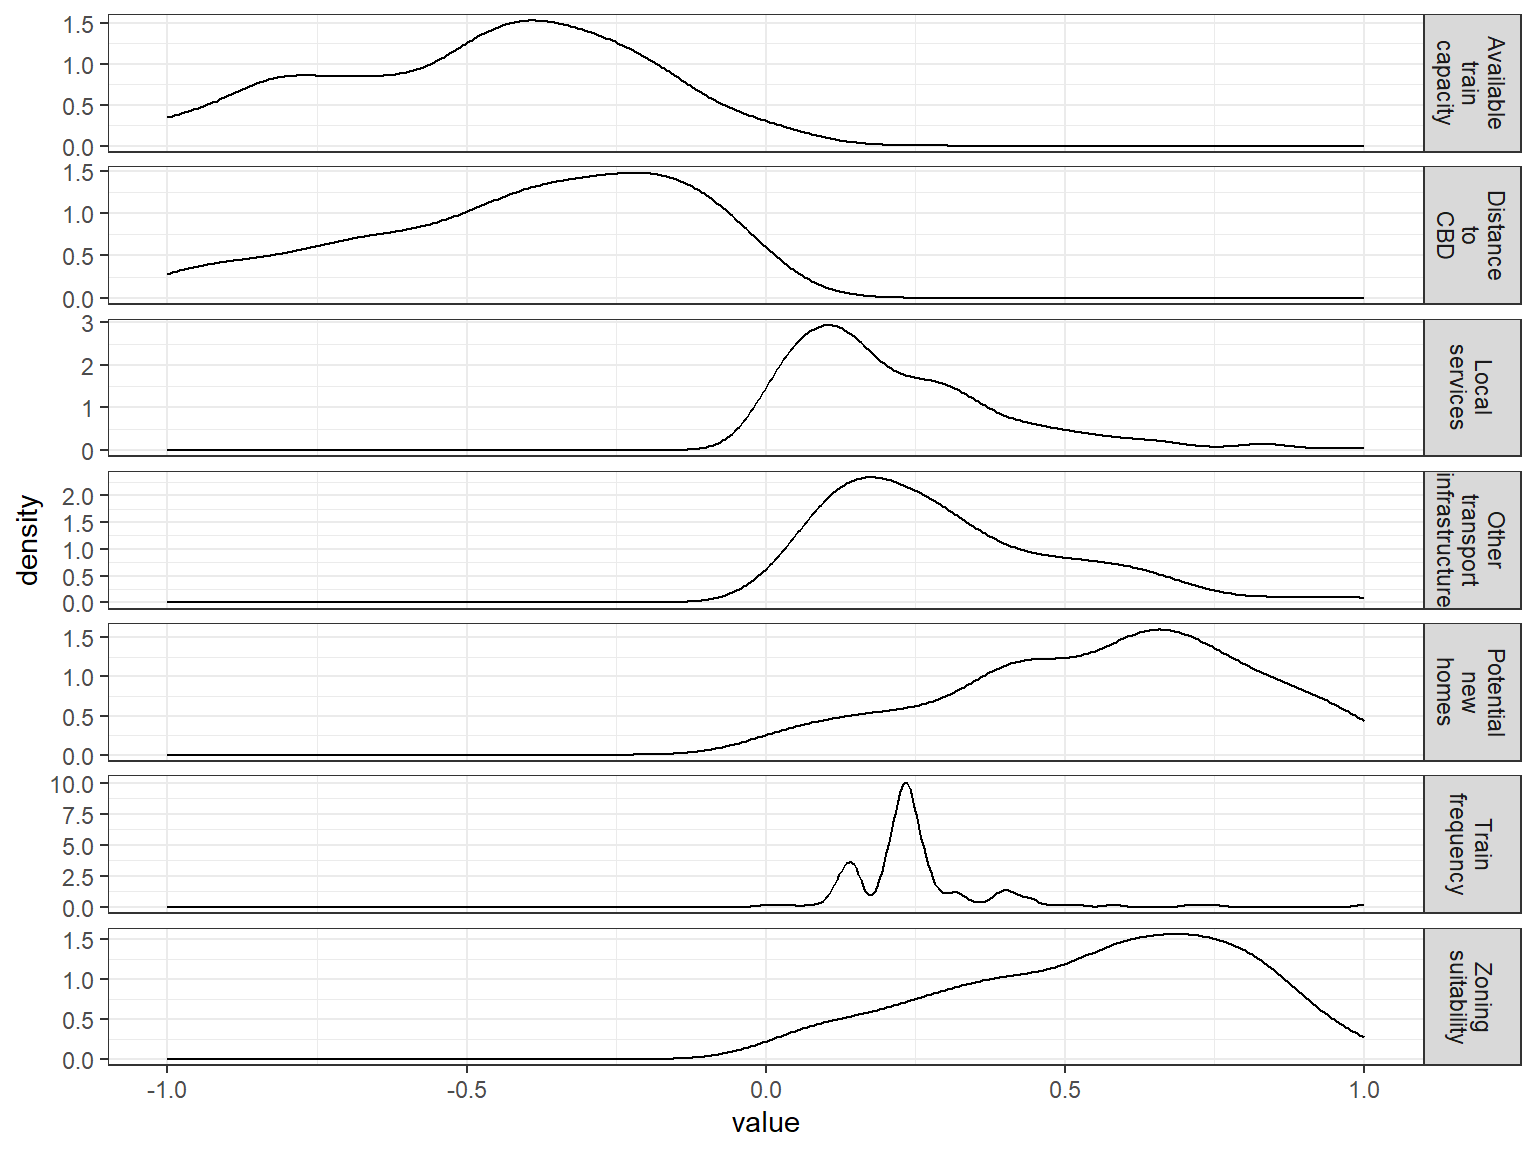
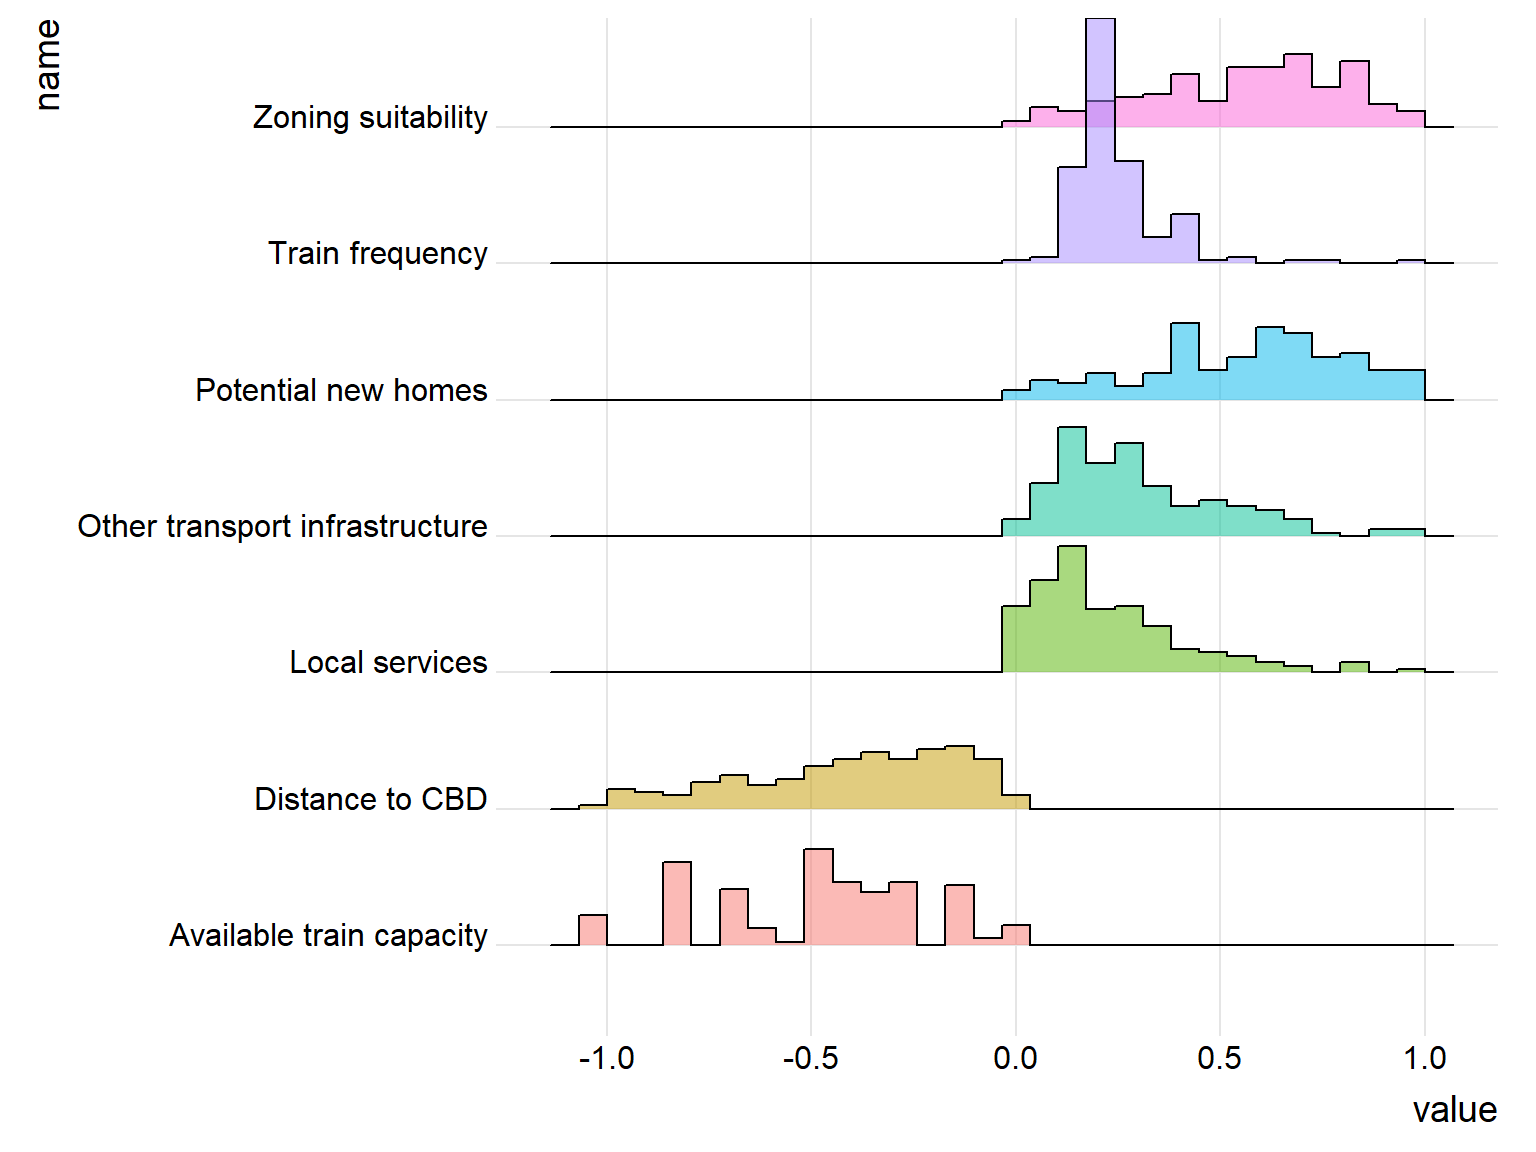
added ridgelines

diff --git a/quarto/analysis.html b/quarto/analysis.html
@@ -22,40 +22,6 @@ ul.task-list li input[type="checkbox"] {
   margin: 0 0.8em 0.2em -1em; /* quarto-specific, see https://github.com/quarto-dev/quarto-cli/issues/4556 */ 
   vertical-align: middle;
 }
-/* CSS for syntax highlighting */
-pre > code.sourceCode { white-space: pre; position: relative; }
-pre > code.sourceCode > span { display: inline-block; line-height: 1.25; }
-pre > code.sourceCode > span:empty { height: 1.2em; }
-.sourceCode { overflow: visible; }
-code.sourceCode > span { color: inherit; text-decoration: inherit; }
-div.sourceCode { margin: 1em 0; }
-pre.sourceCode { margin: 0; }
-@media screen {
-div.sourceCode { overflow: auto; }
-}
-@media print {
-pre > code.sourceCode { white-space: pre-wrap; }
-pre > code.sourceCode > span { text-indent: -5em; padding-left: 5em; }
-}
-pre.numberSource code
-  { counter-reset: source-line 0; }
-pre.numberSource code > span
-  { position: relative; left: -4em; counter-increment: source-line; }
-pre.numberSource code > span > a:first-child::before
-  { content: counter(source-line);
-    position: relative; left: -1em; text-align: right; vertical-align: baseline;
-    border: none; display: inline-block;
-    -webkit-touch-callout: none; -webkit-user-select: none;
-    -khtml-user-select: none; -moz-user-select: none;
-    -ms-user-select: none; user-select: none;
-    padding: 0 4px; width: 4em;
-  }
-pre.numberSource { margin-left: 3em;  padding-left: 4px; }
-div.sourceCode
-  {   }
-@media screen {
-pre > code.sourceCode > span > a:first-child::before { text-decoration: underline; }
-}
 </style>
 
 
@@ -134,35 +100,12 @@ pre > code.sourceCode > span > a:first-child::before { text-decoration: underlin
 
 <section id="distribution-of-scores" class="level2">
 <h2 class="anchored" data-anchor-id="distribution-of-scores">Distribution of scores</h2>
-<div class="tabset-margin-container"></div><div class="panel-tabset">
-<ul class="nav nav-tabs" role="tablist"><li class="nav-item" role="presentation"><a class="nav-link active" id="tabset-1-1-tab" data-bs-toggle="tab" data-bs-target="#tabset-1-1" role="tab" aria-controls="tabset-1-1" aria-selected="true" href="">Zoning suitability</a></li><li class="nav-item" role="presentation"><a class="nav-link" id="tabset-1-2-tab" data-bs-toggle="tab" data-bs-target="#tabset-1-2" role="tab" aria-controls="tabset-1-2" aria-selected="false" href="">Potential number of new homes</a></li><li class="nav-item" role="presentation"><a class="nav-link" id="tabset-1-3-tab" data-bs-toggle="tab" data-bs-target="#tabset-1-3" role="tab" aria-controls="tabset-1-3" aria-selected="false" href="">Train service frequency in peak</a></li><li class="nav-item" role="presentation"><a class="nav-link" id="tabset-1-4-tab" data-bs-toggle="tab" data-bs-target="#tabset-1-4" role="tab" aria-controls="tabset-1-4" aria-selected="false" href="">Train service passenger numbers in peak</a></li><li class="nav-item" role="presentation"><a class="nav-link" id="tabset-1-5-tab" data-bs-toggle="tab" data-bs-target="#tabset-1-5" role="tab" aria-controls="tabset-1-5" aria-selected="false" href="">Number of local services within a 500m walk</a></li><li class="nav-item" role="presentation"><a class="nav-link" id="tabset-1-6-tab" data-bs-toggle="tab" data-bs-target="#tabset-1-6" role="tab" aria-controls="tabset-1-6" aria-selected="false" href="">Distance to CBD</a></li><li class="nav-item" role="presentation"><a class="nav-link" id="tabset-1-7-tab" data-bs-toggle="tab" data-bs-target="#tabset-1-7" role="tab" aria-controls="tabset-1-7" aria-selected="false" href="">Existing transport infrastructure.</a></li></ul>
-<div class="tab-content">
-<div id="tabset-1-1" class="tab-pane active" role="tabpanel" aria-labelledby="tabset-1-1-tab">
 <div class="cell">
-<div class="sourceCode cell-code" id="cb1"><pre class="sourceCode r code-with-copy"><code class="sourceCode r"><span id="cb1-1"><a href="#cb1-1" aria-hidden="true" tabindex="-1"></a><span class="fu">makeDensityPlot</span>(<span class="st">'Zoning suitability'</span>)</span></code><button title="Copy to Clipboard" class="code-copy-button"><i class="bi"></i></button></pre></div>
 <div class="cell-output-display">
-<p><img src="analysis_files/figure-html/unnamed-chunk-2-1.png" class="img-fluid" width="768"></p>
+<p><img src="analysis_files/figure-html/unnamed-chunk-1-1.png" class="img-fluid" width="768"></p>
 </div>
-</div>
-</div>
-<div id="tabset-1-2" class="tab-pane" role="tabpanel" aria-labelledby="tabset-1-2-tab">
-
-</div>
-<div id="tabset-1-3" class="tab-pane" role="tabpanel" aria-labelledby="tabset-1-3-tab">
-
-</div>
-<div id="tabset-1-4" class="tab-pane" role="tabpanel" aria-labelledby="tabset-1-4-tab">
-
-</div>
-<div id="tabset-1-5" class="tab-pane" role="tabpanel" aria-labelledby="tabset-1-5-tab">
-
-</div>
-<div id="tabset-1-6" class="tab-pane" role="tabpanel" aria-labelledby="tabset-1-6-tab">
-
-</div>
-<div id="tabset-1-7" class="tab-pane" role="tabpanel" aria-labelledby="tabset-1-7-tab">
-
-</div>
+<div class="cell-output-display">
+<p><img src="analysis_files/figure-html/unnamed-chunk-1-2.png" class="img-fluid" width="768"></p>
 </div>
 </div>
 </section>
@@ -173,8 +116,8 @@ pre > code.sourceCode > span > a:first-child::before { text-decoration: underlin
 <h2 class="anchored" data-anchor-id="k-clustering">K-clustering</h2>
 <div class="cell">
 <div class="cell-output-display">
-<div class="leaflet html-widget html-fill-item" id="htmlwidget-5457d5038a2ecf8a76b0" style="width:100%;height:487px;"></div>
-<script type="application/json" data-for="htmlwidget-5457d5038a2ecf8a76b0">{"x":{"options":{"crs":{"crsClass":"L.CRS.EPSG3857","code":null,"proj4def":null,"projectedBounds":null,"options":{}}},"calls":[{"method":"addProviderTiles","args":["CartoDB.Positron",null,null,{"errorTileUrl":"","noWrap":false,"detectRetina":false}]},{"method":"addCircleMarkers","args":[[-37.86660595,-37.86832039,-37.77765281,-37.77839363,-37.8671476,-37.76124203,-37.85645238,-37.77530609,-37.86196753,-38.02722019,-37.82239831,-37.86948773,-37.73352285,-38.19404306,-37.84173004,-38.05083135,-37.9091021,-37.74556212,-37.91742457,-38.04040829,-38.33739032,-37.82007075,-38.06294478,-37.8604518,-37.81922165,-37.92648432,-37.68304926,-37.76772055,-37.82756022,-37.85156328,-37.82656714,-37.82448518,-38.07129047,-37.88624148,-38.07489292,-37.87745946,-37.82429952,-38.05195538,-37.96664989,-37.92468255,-37.78865745,-37.74234502,-37.80452593,-37.66100253,-37.6018169,-38.09953731,-38.36612338,-37.764101,-37.79543697,-37.98996792,-37.77496341,-37.86895684,-37.77918729,-37.67329744,-37.62701651,-37.76358553,-37.82589419,-37.87693002,-38.084284,-37.82639995,-38.03805602,-37.88475311,-37.71354967,-37.65238715,-37.7560117,-37.77917126,-37.71462129,-37.88169799,-37.81198131,-37.78813995,-37.78720192,-37.81830513,-37.80108298,-38.14299007,-37.89669508,-37.85327908,-37.75751083,-37.85930842,-37.87950407,-37.74720985,-37.82146682,-37.88971946,-37.70453633,-37.700678,-37.70395408,-38.01774038,-37.93797681,-37.84398457,-38.30565853,-37.84459087,-37.622992,-37.82182601,-37.81889537,-37.82832227,-37.75707293,-37.83467244,-37.948425,-37.87440222,-37.88327618,-37.89488129,-37.91101734,-37.63939817,-37.76889674,-37.69513079,-37.77498702,-37.81652702,-37.87360339,-38.12174203,-37.72927934,-37.79378022,-37.69487012,-37.83992894,-37.82078023,-37.66585075,-37.86369404,-38.152034,-37.75551777,-38.05734118,-37.79426673,-37.7260123,-37.8662533,-37.91030903,-37.80993877,-37.9818654,-38.07900048,-37.72093389,-37.602549,-37.77784668,-37.91513441,-37.8025047,-37.644062,-37.81800987,-37.71529624,-37.76570666,-37.93435329,-37.78474883,-38.00658295,-37.75448484,-38.35403334,-37.87525526,-37.89019832,-38.02780932,-37.78732767,-37.84271757,-37.96723193,-37.90488721,-37.80630984,-37.81039836,-37.85733348,-37.76986537,-37.82060317,-37.71794973,-37.90037214,-38.06614572,-37.90321167,-38.08061397,-37.99307882,-37.81105406,-37.73075596,-37.92514919,-37.84951848,-37.73867424,-37.72840277,-37.71688492,-37.82407446,-37.81588648,-37.81196804,-37.87590643,-37.83150543,-37.7428786,-37.63823121,-37.78119293,-37.78321711,-37.70789754,-37.95650457,-37.95033018,-38.10402104,-37.86784231,-37.80900514,-37.7835,-38.22534196,-37.79953087,-37.6491588,-37.83844935,-37.81793643,-37.958758,-37.83063888,-37.94950878,-37.74486131,-38.37423454,-37.74359132,-37.57909097,-37.78853633,-37.87622963,-37.90811849,-37.68033809,-37.75505179,-37.85077381,-37.84936553,-37.7992509,-38.259815,-37.823477,-37.66607779,-37.8926717,-37.90369097,-37.79915782,-37.70112872,-37.71095798,-37.66396792,-37.89937805,-37.8018087,-37.81494896,-37.93849121,-37.7806207,-37.86516348,-37.86986533,-37.86775292,-37.86398189,-37.83571565,-37.85605308,-37.97825454,-37.81585044],[144.7608094,145.0796557,144.8247036,145.0312549,144.8296447,144.960684,145.0193255,144.9218207,145.0813438,145.1021496,145.0458437,144.9935121,144.9628406,145.1605261,145.2681364,145.3660737,145.3552913,145.000155,145.0369951,145.3457261,145.1780265,145.1500135,145.1196804,145.2843851,145.1214289,144.9891536,144.9196132,144.9595865,145.0075551,145.0805111,145.0586972,145.0812242,145.437791,145.0585751,145.1224183,145.0425248,145.0886479,145.1160413,145.0545579,145.1205344,144.9954167,144.9633363,144.9937497,144.9260556,144.9433203,145.280599,145.2040433,144.9970562,145.2805978,145.2097254,145.038476,145.0629508,145.0082416,145.1585062,144.7199224,145.0539427,145.0681902,145.069393,145.506311,144.9970657,145.1085355,145.0008979,145.147822,145.0301217,144.9161975,145.0169053,144.960545,145.2952513,144.9556538,144.9393233,144.9075887,144.9669643,144.9031992,145.1261623,145.0041684,145.0516547,144.8095734,145.0582249,145.1620575,144.9209387,145.0364388,145.0422229,144.9172204,144.9588743,145.1082474,145.2697768,145.0014706,145.0755596,145.1859799,145.0021421,145.097396,145.0228987,145.2127872,145.2445554,145.0606855,145.0226353,145.0418718,145.090662,144.7009549,145.0776351,145.1023643,145.1920169,145.0454252,144.9158505,144.9587169,144.9840983,145.1120902,145.1352953,144.7937381,144.9305244,145.0118838,145.0335516,145.1407027,145.0171932,144.7726167,145.139534,145.3477102,145.2492751,144.9361663,145.0691433,145.0292939,145.038299,144.9625935,145.0651659,145.2635114,144.9613135,145.100883,144.9929725,144.9962991,144.8914721,145.09214,145.1919735,145.1215157,144.9191607,145.0367383,145.3124024,145.0876594,144.961823,145.1896025,145.1280557,145.0673749,145.3039694,144.9289785,144.8835999,145.1769357,145.002605,144.9415102,144.9925003,144.8890695,144.9952772,145.1748917,144.9215188,145.0883079,145.4109872,145.0396134,145.4863791,145.0763268,144.9729109,144.9281956,145.03547,144.9898599,145.000522,145.0027726,145.0069958,144.9901643,145.2289685,145.2501909,144.9952366,145.069646,145.0661403,144.9354037,144.9523013,144.9924071,145.0095166,145.1628259,145.0045614,145.1282304,144.8409577,144.8956716,144.915,145.1762449,144.925469,145.0670324,144.9923422,144.9514112,145.049124,144.8859335,145.1534518,144.8000505,145.2218375,144.9273157,144.7273188,144.8328782,145.1497805,145.3429946,145.0142789,144.9985715,145.0139086,145.0417337,144.8629449,145.1864007,145.1000368,144.9467399,145.3075302,145.3313334,144.9944514,144.7741805,145.0837934,145.1816145,144.661118,144.8853248,144.9914228,145.1388326,144.9992332,144.8134936,144.7474447,144.9053233,144.8944837,145.0702976,144.9920352,145.1916003,144.8899337],10,null,null,{"interactive":true,"className":"","stroke":null,"color":"#03F","weight":5,"opacity":0.5,"fill":true,"fillColor":["#31688E","#FDE725","#31688E","#FDE725","#FDE725","#440154","#440154","#440154","#FDE725","#FDE725","#440154","#440154","#440154","#808080","#31688E","#808080","#808080","#440154","#FDE725","#808080","#808080","#FDE725","#FDE725","#FDE725","#440154","#FDE725","#31688E","#440154","#440154","#FDE725","#440154","#FDE725","#808080","#FDE725","#FDE725","#440154","#FDE725","#FDE725","#FDE725","#31688E","#440154","#FDE725","#440154","#FDE725","#31688E","#808080","#808080","#440154","#FDE725","#31688E","#FDE725","#FDE725","#FDE725","#FDE725","#31688E","#FDE725","#440154","#FDE725","#808080","#440154","#FDE725","#440154","#FDE725","#31688E","#440154","#FDE725","#FDE725","#31688E","#35B779","#440154","#440154","#35B779","#440154","#808080","#FDE725","#FDE725","#31688E","#FDE725","#FDE725","#FDE725","#440154","#FDE725","#FDE725","#FDE725","#FDE725","#808080","#FDE725","#FDE725","#808080","#440154","#31688E","#440154","#31688E","#FDE725","#FDE725","#440154","#FDE725","#FDE725","#31688E","#FDE725","#31688E","#31688E","#FDE725","#FDE725","#440154","#440154","#FDE725","#808080","#31688E","#440154","#31688E","#FDE725","#FDE725","#FDE725","#FDE725","#808080","#808080","#31688E","#440154","#FDE725","#440154","#FDE725","#35B779","#FDE725","#808080","#FDE725","#31688E","#440154","#FDE725","#440154","#31688E","#FDE725","#FDE725","#440154","#FDE725","#FDE725","#FDE725","#FDE725","#808080","#FDE725","#FDE725","#808080","#440154","#440154","#31688E","#FDE725","#440154","#440154","#440154","#440154","#FDE725","#FDE725","#31688E","#808080","#FDE725","#808080","#FDE725","#35B779","#FDE725","#FDE725","#440154","#FDE725","#FDE725","#FDE725","#440154","#31688E","#FDE725","#440154","#440154","#FDE725","#31688E","#440154","#440154","#FDE725","#31688E","#FDE725","#808080","#31688E","#440154","#440154","#808080","#440154","#31688E","#440154","#35B779","#FDE725","#440154","#31688E","#31688E","#808080","#FDE725","#31688E","#31688E","#FDE725","#808080","#31688E","#440154","#440154","#FDE725","#31688E","#808080","#FDE725","#FDE725","#31688E","#808080","#440154","#31688E","#FDE725","#31688E","#31688E","#31688E","#440154","#31688E","#440154","#FDE725","#31688E","#440154","#440154","#FDE725","#440154","#31688E","#440154"],"fillOpacity":0.5},null,null,null,null,null,{"interactive":false,"permanent":false,"direction":"auto","opacity":1,"offset":[0,0],"textsize":"10px","textOnly":false,"className":"","sticky":true},null]},{"method":"addLegend","args":[{"colors":["#440154","#31688E","#35B779","#FDE725"],"labels":["1","2","3","4"],"na_color":"#808080","na_label":"NA","opacity":0.5,"position":"bottomleft","type":"factor","title":"cluster","extra":null,"layerId":null,"className":"info legend","group":null}]}],"limits":{"lat":[-38.37423454,-37.57909097],"lng":[144.661118,145.506311]}},"evals":[],"jsHooks":[]}</script>
+<div class="leaflet html-widget html-fill-item" id="htmlwidget-e87d8fd62fc77776e67e" style="width:100%;height:487px;"></div>
+<script type="application/json" data-for="htmlwidget-e87d8fd62fc77776e67e">{"x":{"options":{"crs":{"crsClass":"L.CRS.EPSG3857","code":null,"proj4def":null,"projectedBounds":null,"options":{}}},"calls":[{"method":"addProviderTiles","args":["CartoDB.Positron",null,null,{"errorTileUrl":"","noWrap":false,"detectRetina":false}]},{"method":"addCircleMarkers","args":[[-37.86660595,-37.86832039,-37.77765281,-37.77839363,-37.8671476,-37.76124203,-37.85645238,-37.77530609,-37.86196753,-38.02722019,-37.82239831,-37.86948773,-37.73352285,-38.19404306,-37.84173004,-38.05083135,-37.9091021,-37.74556212,-37.91742457,-38.04040829,-38.33739032,-37.82007075,-38.06294478,-37.8604518,-37.81922165,-37.92648432,-37.68304926,-37.76772055,-37.82756022,-37.85156328,-37.82656714,-37.82448518,-38.07129047,-37.88624148,-38.07489292,-37.87745946,-37.82429952,-38.05195538,-37.96664989,-37.92468255,-37.78865745,-37.74234502,-37.80452593,-37.66100253,-37.6018169,-38.09953731,-38.36612338,-37.764101,-37.79543697,-37.98996792,-37.77496341,-37.86895684,-37.77918729,-37.67329744,-37.62701651,-37.76358553,-37.82589419,-37.87693002,-38.084284,-37.82639995,-38.03805602,-37.88475311,-37.71354967,-37.65238715,-37.7560117,-37.77917126,-37.71462129,-37.88169799,-37.81198131,-37.78813995,-37.78720192,-37.81830513,-37.80108298,-38.14299007,-37.89669508,-37.85327908,-37.75751083,-37.85930842,-37.87950407,-37.74720985,-37.82146682,-37.88971946,-37.70453633,-37.700678,-37.70395408,-38.01774038,-37.93797681,-37.84398457,-38.30565853,-37.84459087,-37.622992,-37.82182601,-37.81889537,-37.82832227,-37.75707293,-37.83467244,-37.948425,-37.87440222,-37.88327618,-37.89488129,-37.91101734,-37.63939817,-37.76889674,-37.69513079,-37.77498702,-37.81652702,-37.87360339,-38.12174203,-37.72927934,-37.79378022,-37.69487012,-37.83992894,-37.82078023,-37.66585075,-37.86369404,-38.152034,-37.75551777,-38.05734118,-37.79426673,-37.7260123,-37.8662533,-37.91030903,-37.80993877,-37.9818654,-38.07900048,-37.72093389,-37.602549,-37.77784668,-37.91513441,-37.8025047,-37.644062,-37.81800987,-37.71529624,-37.76570666,-37.93435329,-37.78474883,-38.00658295,-37.75448484,-38.35403334,-37.87525526,-37.89019832,-38.02780932,-37.78732767,-37.84271757,-37.96723193,-37.90488721,-37.80630984,-37.81039836,-37.85733348,-37.76986537,-37.82060317,-37.71794973,-37.90037214,-38.06614572,-37.90321167,-38.08061397,-37.99307882,-37.81105406,-37.73075596,-37.92514919,-37.84951848,-37.73867424,-37.72840277,-37.71688492,-37.82407446,-37.81588648,-37.81196804,-37.87590643,-37.83150543,-37.7428786,-37.63823121,-37.78119293,-37.78321711,-37.70789754,-37.95650457,-37.95033018,-38.10402104,-37.86784231,-37.80900514,-37.7835,-38.22534196,-37.79953087,-37.6491588,-37.83844935,-37.81793643,-37.958758,-37.83063888,-37.94950878,-37.74486131,-38.37423454,-37.74359132,-37.57909097,-37.78853633,-37.87622963,-37.90811849,-37.68033809,-37.75505179,-37.85077381,-37.84936553,-37.7992509,-38.259815,-37.823477,-37.66607779,-37.8926717,-37.90369097,-37.79915782,-37.70112872,-37.71095798,-37.66396792,-37.89937805,-37.8018087,-37.81494896,-37.93849121,-37.7806207,-37.86516348,-37.86986533,-37.86775292,-37.86398189,-37.83571565,-37.85605308,-37.97825454,-37.81585044],[144.7608094,145.0796557,144.8247036,145.0312549,144.8296447,144.960684,145.0193255,144.9218207,145.0813438,145.1021496,145.0458437,144.9935121,144.9628406,145.1605261,145.2681364,145.3660737,145.3552913,145.000155,145.0369951,145.3457261,145.1780265,145.1500135,145.1196804,145.2843851,145.1214289,144.9891536,144.9196132,144.9595865,145.0075551,145.0805111,145.0586972,145.0812242,145.437791,145.0585751,145.1224183,145.0425248,145.0886479,145.1160413,145.0545579,145.1205344,144.9954167,144.9633363,144.9937497,144.9260556,144.9433203,145.280599,145.2040433,144.9970562,145.2805978,145.2097254,145.038476,145.0629508,145.0082416,145.1585062,144.7199224,145.0539427,145.0681902,145.069393,145.506311,144.9970657,145.1085355,145.0008979,145.147822,145.0301217,144.9161975,145.0169053,144.960545,145.2952513,144.9556538,144.9393233,144.9075887,144.9669643,144.9031992,145.1261623,145.0041684,145.0516547,144.8095734,145.0582249,145.1620575,144.9209387,145.0364388,145.0422229,144.9172204,144.9588743,145.1082474,145.2697768,145.0014706,145.0755596,145.1859799,145.0021421,145.097396,145.0228987,145.2127872,145.2445554,145.0606855,145.0226353,145.0418718,145.090662,144.7009549,145.0776351,145.1023643,145.1920169,145.0454252,144.9158505,144.9587169,144.9840983,145.1120902,145.1352953,144.7937381,144.9305244,145.0118838,145.0335516,145.1407027,145.0171932,144.7726167,145.139534,145.3477102,145.2492751,144.9361663,145.0691433,145.0292939,145.038299,144.9625935,145.0651659,145.2635114,144.9613135,145.100883,144.9929725,144.9962991,144.8914721,145.09214,145.1919735,145.1215157,144.9191607,145.0367383,145.3124024,145.0876594,144.961823,145.1896025,145.1280557,145.0673749,145.3039694,144.9289785,144.8835999,145.1769357,145.002605,144.9415102,144.9925003,144.8890695,144.9952772,145.1748917,144.9215188,145.0883079,145.4109872,145.0396134,145.4863791,145.0763268,144.9729109,144.9281956,145.03547,144.9898599,145.000522,145.0027726,145.0069958,144.9901643,145.2289685,145.2501909,144.9952366,145.069646,145.0661403,144.9354037,144.9523013,144.9924071,145.0095166,145.1628259,145.0045614,145.1282304,144.8409577,144.8956716,144.915,145.1762449,144.925469,145.0670324,144.9923422,144.9514112,145.049124,144.8859335,145.1534518,144.8000505,145.2218375,144.9273157,144.7273188,144.8328782,145.1497805,145.3429946,145.0142789,144.9985715,145.0139086,145.0417337,144.8629449,145.1864007,145.1000368,144.9467399,145.3075302,145.3313334,144.9944514,144.7741805,145.0837934,145.1816145,144.661118,144.8853248,144.9914228,145.1388326,144.9992332,144.8134936,144.7474447,144.9053233,144.8944837,145.0702976,144.9920352,145.1916003,144.8899337],10,null,null,{"interactive":true,"className":"","stroke":null,"color":"#03F","weight":5,"opacity":0.5,"fill":true,"fillColor":["#FDE725","#35B779","#FDE725","#35B779","#35B779","#31688E","#31688E","#31688E","#35B779","#35B779","#31688E","#31688E","#31688E","#808080","#FDE725","#808080","#808080","#31688E","#35B779","#808080","#808080","#35B779","#35B779","#35B779","#31688E","#35B779","#FDE725","#31688E","#31688E","#35B779","#31688E","#35B779","#808080","#35B779","#35B779","#31688E","#35B779","#35B779","#35B779","#FDE725","#31688E","#35B779","#31688E","#35B779","#FDE725","#808080","#808080","#31688E","#35B779","#FDE725","#35B779","#35B779","#35B779","#35B779","#FDE725","#35B779","#31688E","#35B779","#808080","#31688E","#35B779","#31688E","#35B779","#FDE725","#31688E","#35B779","#35B779","#FDE725","#440154","#31688E","#31688E","#440154","#31688E","#808080","#35B779","#35B779","#FDE725","#35B779","#35B779","#35B779","#31688E","#35B779","#35B779","#35B779","#35B779","#808080","#35B779","#35B779","#808080","#31688E","#FDE725","#31688E","#FDE725","#35B779","#35B779","#31688E","#35B779","#35B779","#FDE725","#35B779","#FDE725","#FDE725","#35B779","#35B779","#31688E","#31688E","#35B779","#808080","#FDE725","#31688E","#FDE725","#35B779","#35B779","#35B779","#35B779","#808080","#808080","#FDE725","#31688E","#35B779","#31688E","#35B779","#440154","#35B779","#808080","#35B779","#FDE725","#31688E","#35B779","#31688E","#FDE725","#35B779","#35B779","#31688E","#35B779","#35B779","#35B779","#35B779","#808080","#35B779","#35B779","#808080","#31688E","#31688E","#FDE725","#35B779","#31688E","#31688E","#31688E","#31688E","#35B779","#35B779","#FDE725","#808080","#35B779","#808080","#35B779","#440154","#35B779","#35B779","#31688E","#35B779","#35B779","#35B779","#31688E","#FDE725","#35B779","#31688E","#31688E","#35B779","#FDE725","#31688E","#31688E","#35B779","#FDE725","#35B779","#808080","#FDE725","#31688E","#31688E","#808080","#31688E","#FDE725","#31688E","#440154","#35B779","#31688E","#FDE725","#FDE725","#808080","#35B779","#FDE725","#FDE725","#35B779","#808080","#FDE725","#31688E","#31688E","#35B779","#FDE725","#808080","#35B779","#35B779","#FDE725","#808080","#31688E","#FDE725","#35B779","#FDE725","#FDE725","#FDE725","#31688E","#FDE725","#31688E","#35B779","#FDE725","#31688E","#31688E","#35B779","#31688E","#FDE725","#31688E"],"fillOpacity":0.5},null,null,null,null,null,{"interactive":false,"permanent":false,"direction":"auto","opacity":1,"offset":[0,0],"textsize":"10px","textOnly":false,"className":"","sticky":true},null]},{"method":"addLegend","args":[{"colors":["#440154","#31688E","#35B779","#FDE725"],"labels":["1","2","3","4"],"na_color":"#808080","na_label":"NA","opacity":0.5,"position":"bottomleft","type":"factor","title":"cluster","extra":null,"layerId":null,"className":"info legend","group":null}]}],"limits":{"lat":[-38.37423454,-37.57909097],"lng":[144.661118,145.506311]}},"evals":[],"jsHooks":[]}</script>
 </div>
 </div>
 </section>
